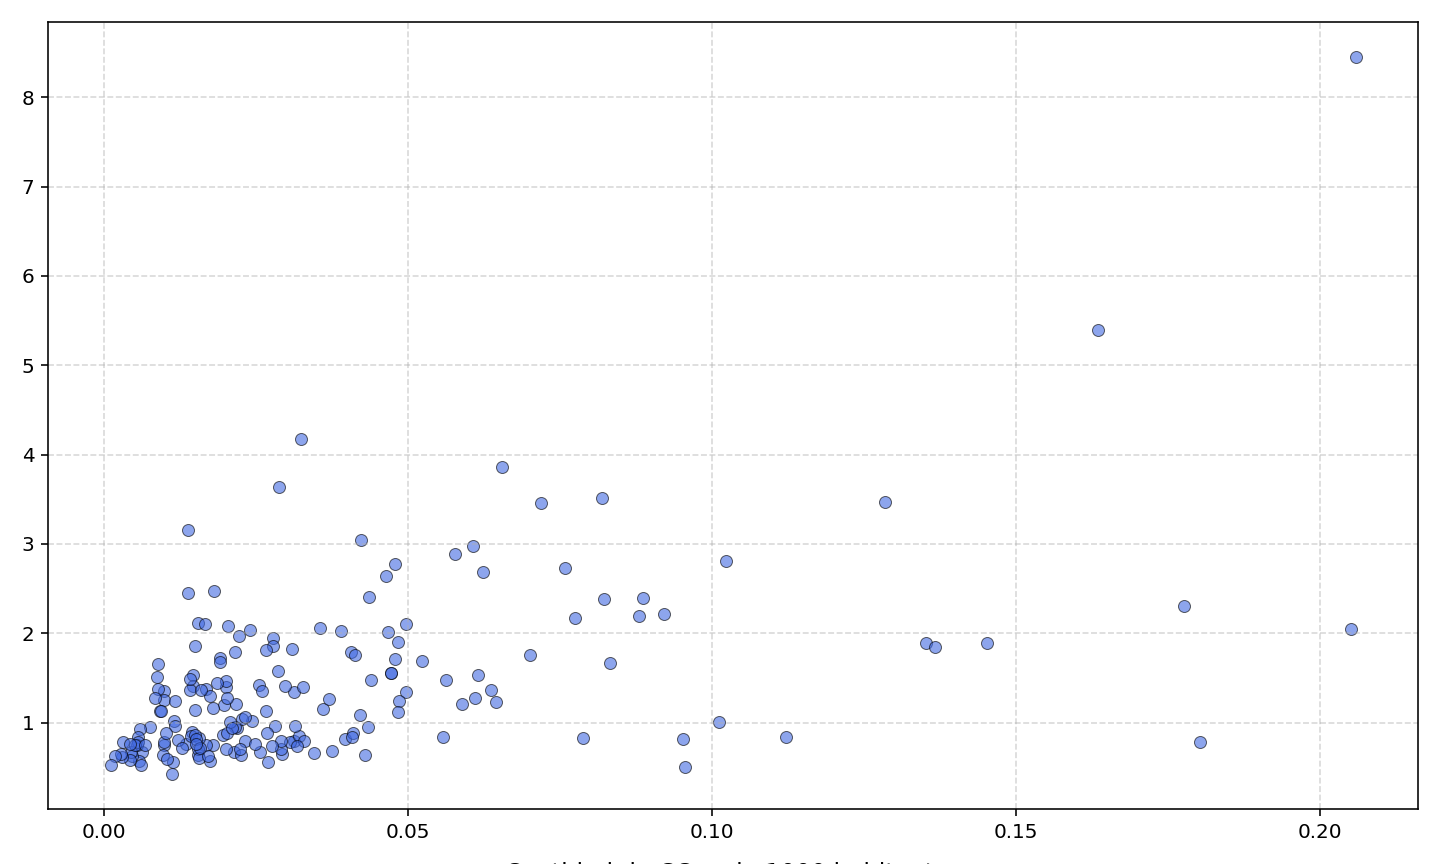
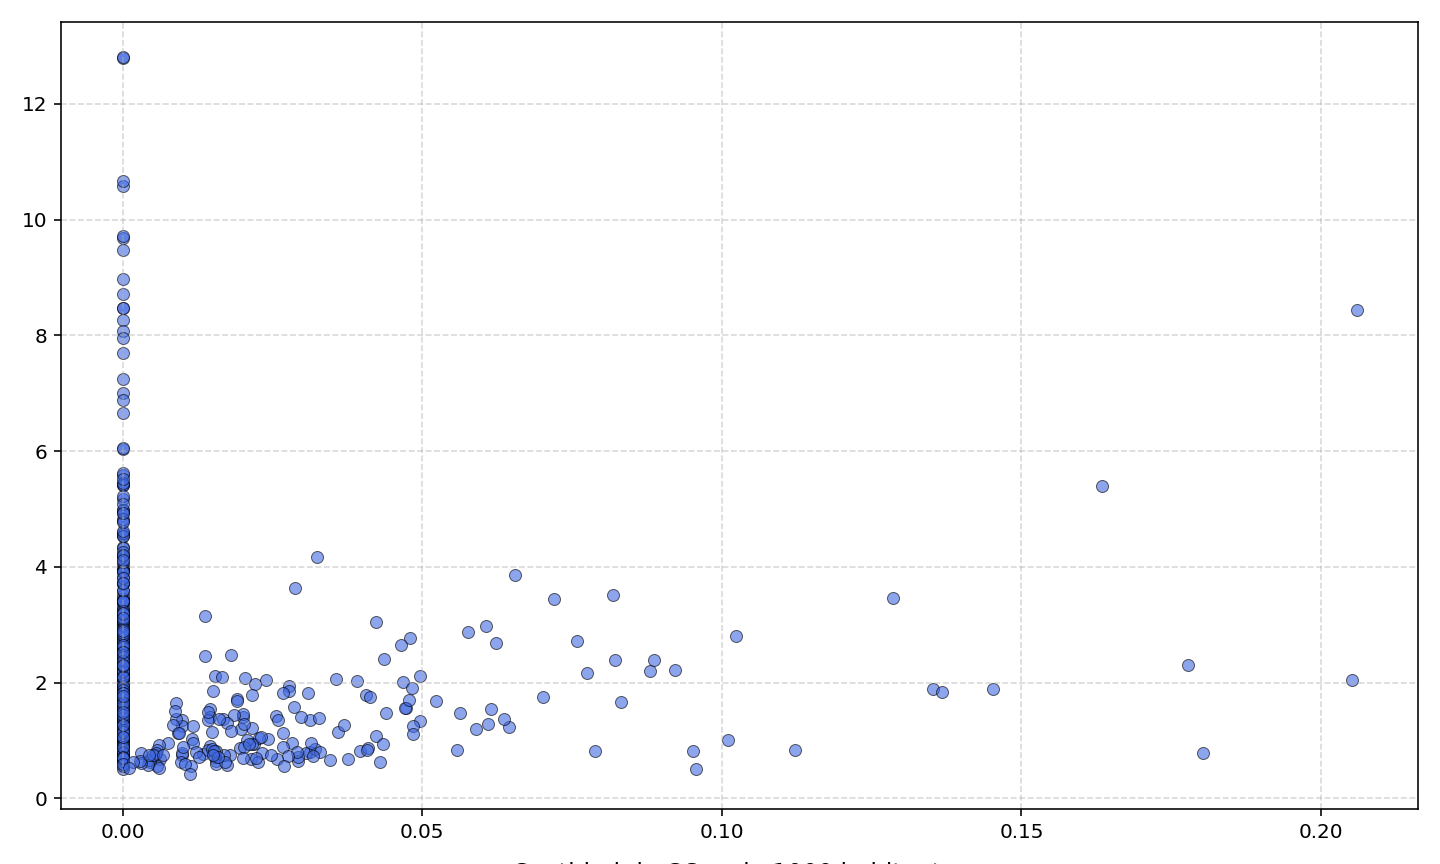
ultimos cambios

diff --git a/tp1.py b/tp1.py
@@ -757,8 +757,6 @@ centros_educativos_por_departamento = dd.sql("""
     GROUP BY p.ID_DEPTO, Jardines, Primarios, Secundarios
 """).df()
 
-# Orden de colores 1
-
 fig, ax = plt.subplots(figsize=(10, 6))
 
 plt.rcParams['font.family'] = 'sans-serif'
@@ -772,24 +770,24 @@ color_primario   = palette[0]  # azul
 color_secundario = palette[11]  # naranja, 0, 11
 
 ax.scatter(
-    centros_educativos_por_departamento['total_poblacion'],
+    centros_educativos_por_departamento['total_jardin'],
     centros_educativos_por_departamento['Jardines'],
     s=10, color=color_jardin, alpha = 0.6, label="Jardín"
 )
 
 ax.scatter(
-    centros_educativos_por_departamento['total_poblacion'],
+    centros_educativos_por_departamento['total_primario'],
     centros_educativos_por_departamento['Primarios'],
-    s=10, color=color_primario, alpha = 0.57, label="Primario"
+    s=10, color=color_primario, alpha = 0.54, label="Primario"
 )
 
 ax.scatter(
-    centros_educativos_por_departamento['total_poblacion'],
+    centros_educativos_por_departamento['total_secundario'],
     centros_educativos_por_departamento['Secundarios'],
     s=10, color=color_secundario, alpha = 0.54, label="Secundario"
 )
 
-ax.set_xlabel('Cantidad de habitantes', fontsize='medium')  
+ax.set_xlabel('Cantidad de alumnos (Por grupo etario)', fontsize='medium')  
 ax.set_ylabel('Cantidad de Establecimientos Educativos por nivel', fontsize='medium')  
 ax.legend(title="Nivel Educativo", loc="upper left")
 
@@ -967,76 +965,26 @@ proporciones["proporcion_cc_1000_hab"] = (proporciones["cc_por_depto"] / proporc
 proporciones = proporciones.sort_values("poblacion")
 
 
-# Extraemos las variables
+# separo variables
 x = proporciones["proporcion_cc_1000_hab"]
 y = proporciones["proporcion_ee_1000_hab"]
 poblacion = proporciones["poblacion"]
 
-# Creamos la figura
 plt.figure(figsize=(10, 6))
 
-# Scatter plot con tamaño basado en la población
+# Scatter - plot
 plt.scatter(x, y, alpha=0.6, color="royalblue", edgecolors="black", linewidth=0.5)
 
-# Ajuste estético
 plt.grid(True, linestyle="--", alpha=0.5)
 plt.tight_layout()
 
-# Etiquetas y título
+# ejes
 plt.xlabel("Cantidad de CC cada 1000 habitantes", fontsize=12, labelpad=10)
 plt.ylabel("Cantidad de EE cada 1000 habitantes", fontsize=12, labelpad=10)
 
-# Guardamos la figura
 plt.savefig('iv_relacion_cc_ee_sin_ceros_poblacion.png')
 
-# Mostramos el gráfico
-plt.show()
-#%%
 
-"""
-Ahora hagamos el plot solo con los departamento que tienen al menos 1 CC
-"""
-
-
-proporciones = ejercicio_iii.copy()
-
-# Agregamos las proporciones correctas al DataFrame
-proporciones["proporcion_ee_1000_hab"] = (proporciones["ee_por_depto"] / proporciones["poblacion"]) * 1000
-proporciones["proporcion_cc_1000_hab"] = (proporciones["cc_por_depto"] / proporciones["poblacion"]) * 1000
-
-
-proporciones = proporciones.sort_values("poblacion")
-
-
-# Filtramos los valores donde ambos sean mayores a 0
-proporciones_filtradas = proporciones[
-    (proporciones["proporcion_cc_1000_hab"] > 0) & (proporciones["proporcion_ee_1000_hab"] > 0)
-]
-
-# Extraemos las variables
-x = proporciones_filtradas["proporcion_cc_1000_hab"]
-y = proporciones_filtradas["proporcion_ee_1000_hab"]
-poblacion = proporciones_filtradas["poblacion"]
-
-# Creamos la figura
-plt.figure(figsize=(10, 6))
-
-# Scatter plot con tamaño basado en la población
-plt.scatter(x, y, alpha=0.6, color="royalblue", edgecolors="black", linewidth=0.5)
-
-# Ajuste estético
-plt.grid(True, linestyle="--", alpha=0.5)
-plt.tight_layout()
-
-# Etiquetas y título
-plt.xlabel("Cantidad de CC cada 1000 habitantes", fontsize=12, labelpad=10)
-plt.ylabel("Cantidad de EE cada 1000 habitantes", fontsize=12, labelpad=10)
-
-# Guardamos la figura
-plt.savefig('iv_relacion_cc_ee_sin_ceros_poblacion.png')
-
-# Mostramos el gráfico
-plt.show()
 #%%
 
 
@@ -1044,7 +992,7 @@ plt.show()
 Veamos si separando por c/habitantes notamos algo más
 """
 
-# Extraemos las variables
+# Separemos las variables
 x = proporciones["proporcion_cc_1000_hab"]
 y = proporciones["proporcion_ee_1000_hab"]
 poblacion = proporciones["poblacion"]
@@ -1052,7 +1000,7 @@ poblacion = proporciones["poblacion"]
 # Definimos los cuartiles de la población para separar los grupos
 q1, q2, q3 = np.percentile(poblacion, [25, 50, 75])
 
-# Creamos el layout 2x2
+# Creamos el layout 2x2 para presentar los gráficos
 fig, axs = plt.subplots(2, 2, figsize=(12, 10), sharex=True, sharey=True)
 
 # Definimos títulos para cada grupo
@@ -1064,74 +1012,23 @@ rangos = [
     (poblacion > q3)
 ]
 
-# Color único para todos los gráficos
+# color royalblue
 color = "royalblue"
 
-# Iteramos sobre los subgráficos
+# iteramos sobre los subgráficos
 for ax, rango, titulo in zip(axs.flat, rangos, titulos):
     ax.scatter(x[rango], y[rango], color=color, edgecolors="black", alpha=0.6)
     ax.set_title(titulo, fontsize=12)
     ax.grid(True, linestyle="--", alpha=0.6)
 
-# Etiquetas en los ejes
+# denotamos cada eje
 for ax in axs[:, 0]:
     ax.set_ylabel("EE cada 1000 hab", fontsize=12)
 
 for ax in axs[1, :]:
     ax.set_xlabel("CC cada 1000 hab", fontsize=12)
 
-# Ajuste de layout
 plt.tight_layout()
 
-# Guardamos la figura
-plt.savefig('iv_relacion_cc_ee_separado_por_poblacion.png')
-
-#%%
-
-# Filtramos los valores donde ambos sean mayores a 0
-proporciones_filtradas = proporciones[
-    (proporciones["proporcion_cc_1000_hab"] > 0) & (proporciones["proporcion_ee_1000_hab"] > 0)
-]
-
-# Extraemos las variables
-x = proporciones_filtradas["proporcion_cc_1000_hab"]
-y = proporciones_filtradas["proporcion_ee_1000_hab"]
-poblacion = proporciones_filtradas["poblacion"]
-
-# Definimos los cuartiles de la población para separar los grupos
-q1, q2, q3 = np.percentile(poblacion, [25, 50, 75])
-
-# Creamos el layout 2x2
-fig, axs = plt.subplots(2, 2, figsize=(12, 10), sharex=True, sharey=True)
-
-# Definimos títulos para cada grupo
-titulos = ["Baja población", "Media-baja población", "Media-alta población", "Alta población"]
-rangos = [
-    (poblacion <= q1),
-    ((poblacion > q1) & (poblacion <= q2)),
-    ((poblacion > q2) & (poblacion <= q3)),
-    (poblacion > q3)
-]
-
-# Color único para todos los gráficos
-color = "royalblue"
-
-# Iteramos sobre los subgráficos
-for ax, rango, titulo in zip(axs.flat, rangos, titulos):
-    ax.scatter(x[rango], y[rango], color=color, edgecolors="black", alpha=0.6)
-    ax.set_title(titulo, fontsize=12)
-    ax.grid(True, linestyle="--", alpha=0.6)
-
-# Etiquetas en los ejes
-for ax in axs[:, 0]:
-    ax.set_ylabel("EE cada 1000 hab", fontsize=12)
-
-for ax in axs[1, :]:
-    ax.set_xlabel("CC cada 1000 hab", fontsize=12)
-
-# Ajuste de layout
-plt.tight_layout()
-
-# Guardamos la figura
 plt.savefig('iv_relacion_cc_ee_separado_por_poblacion.png')
 
